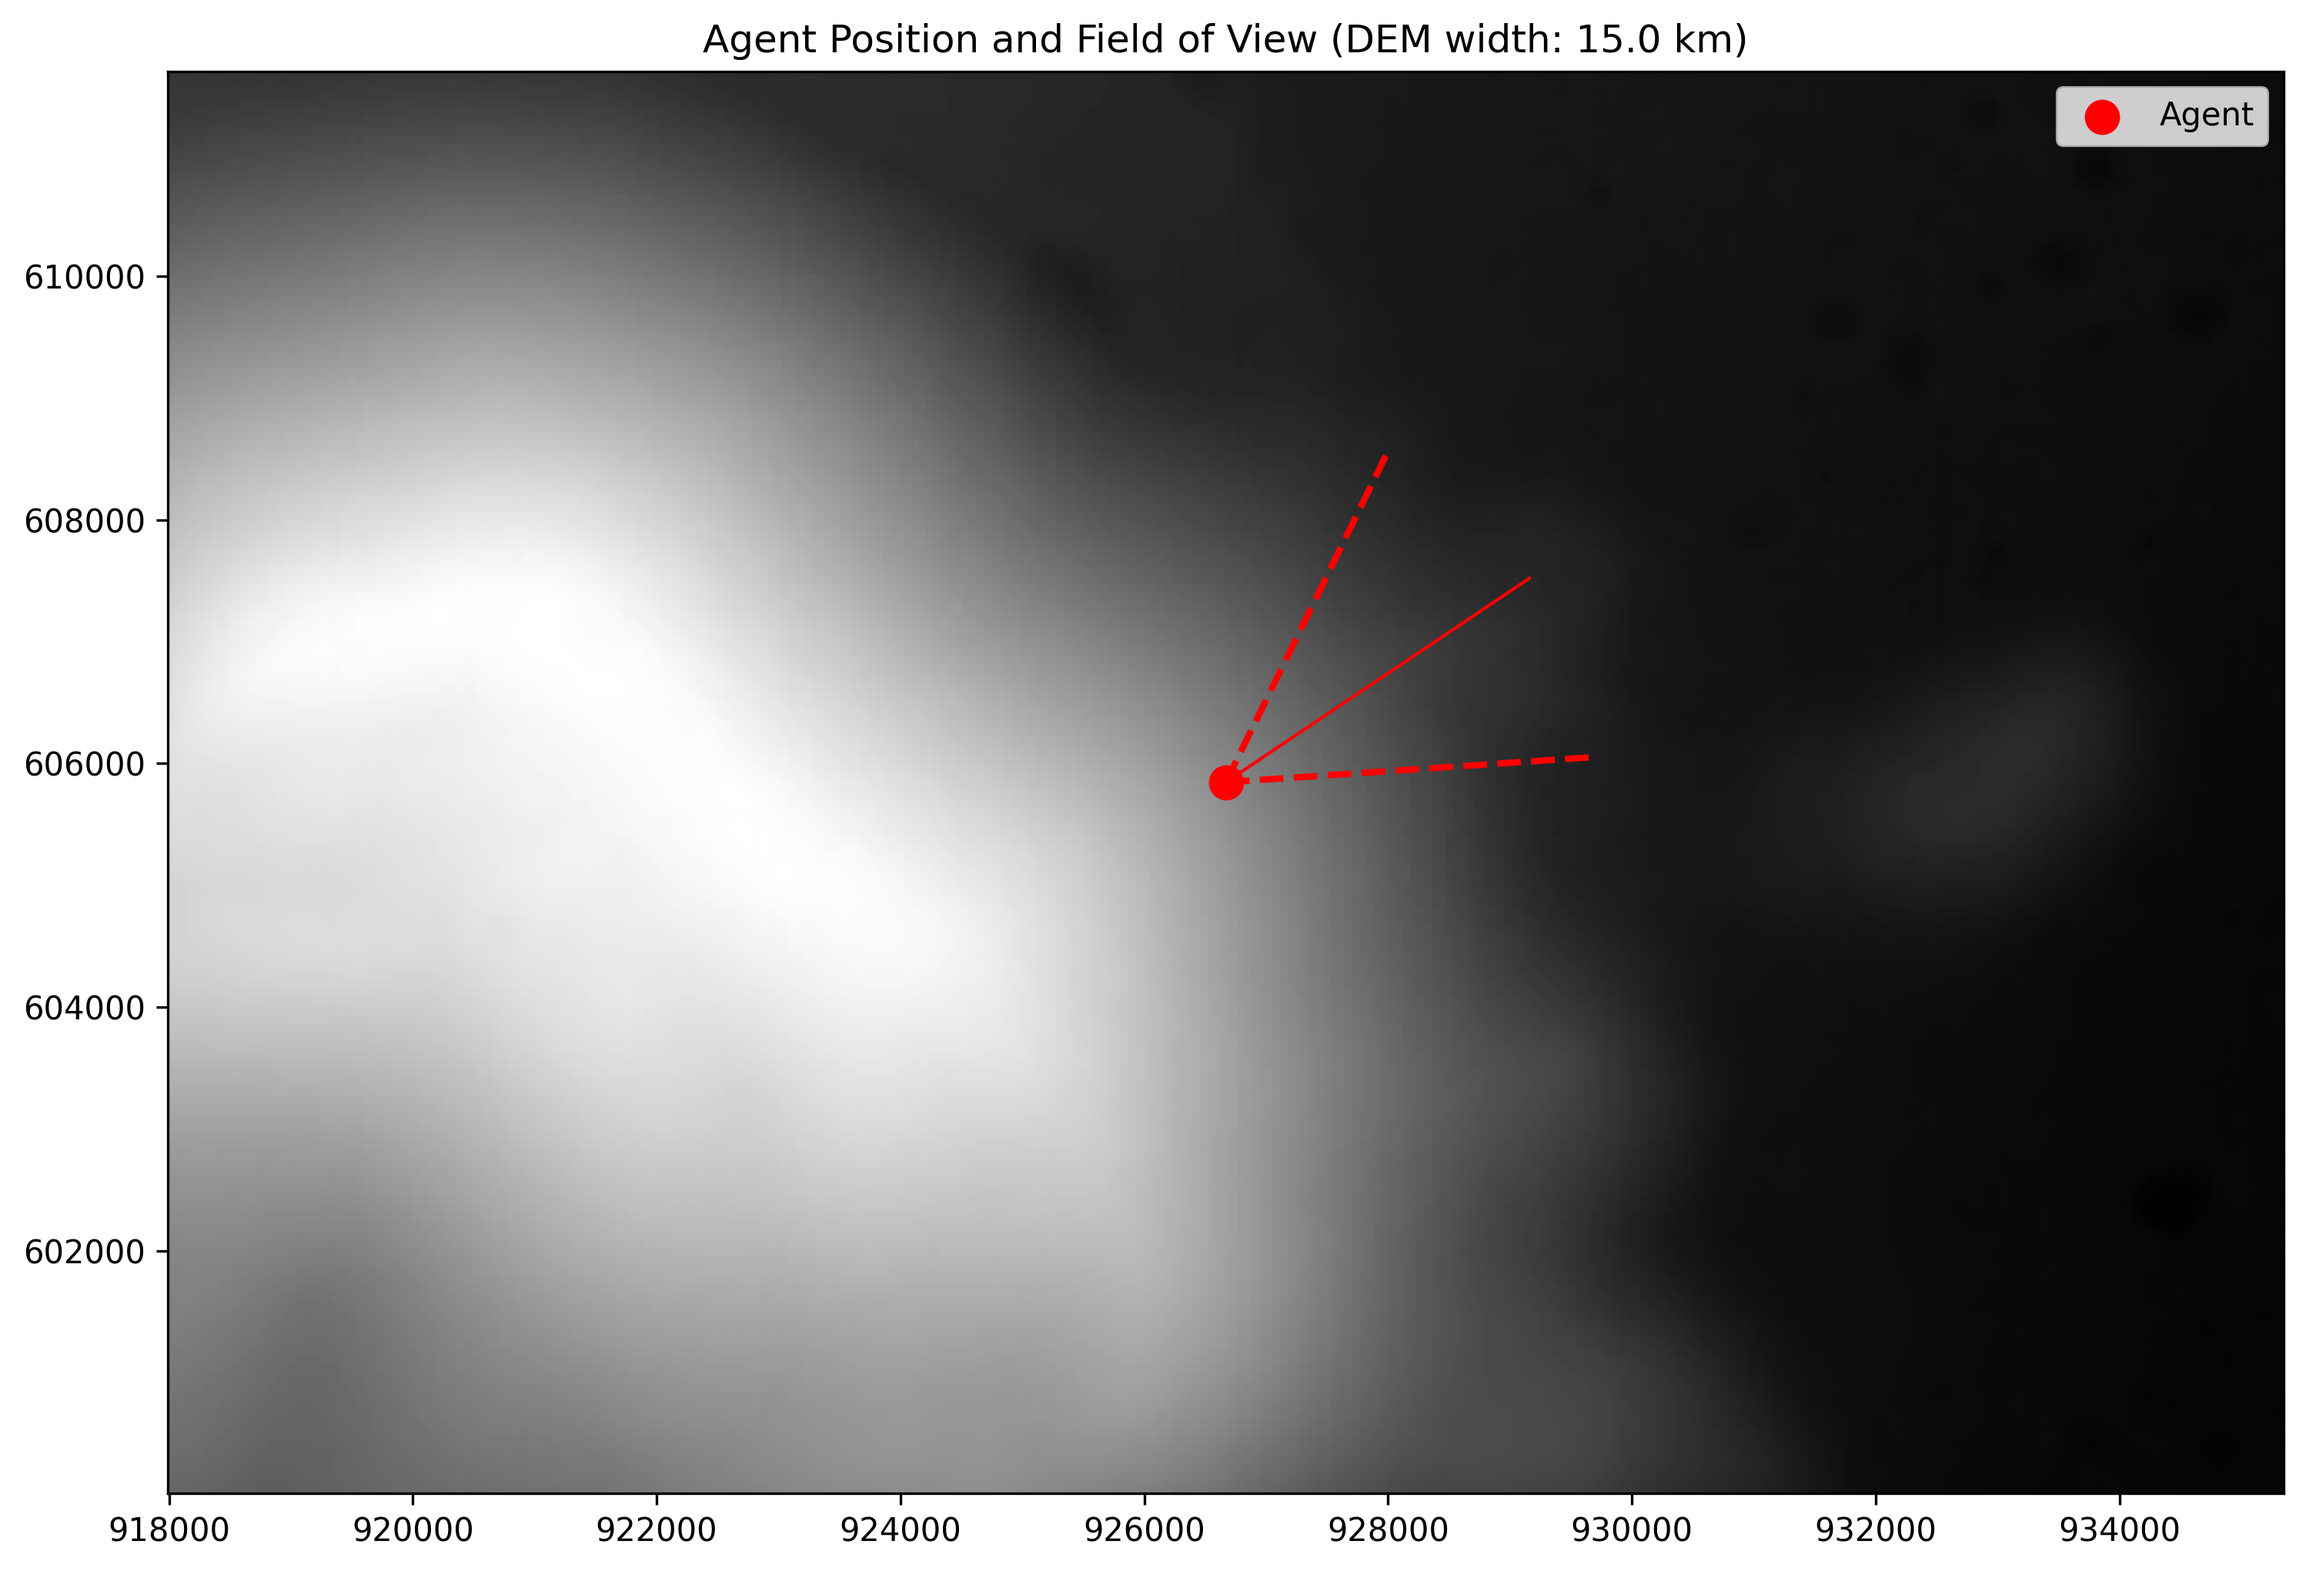
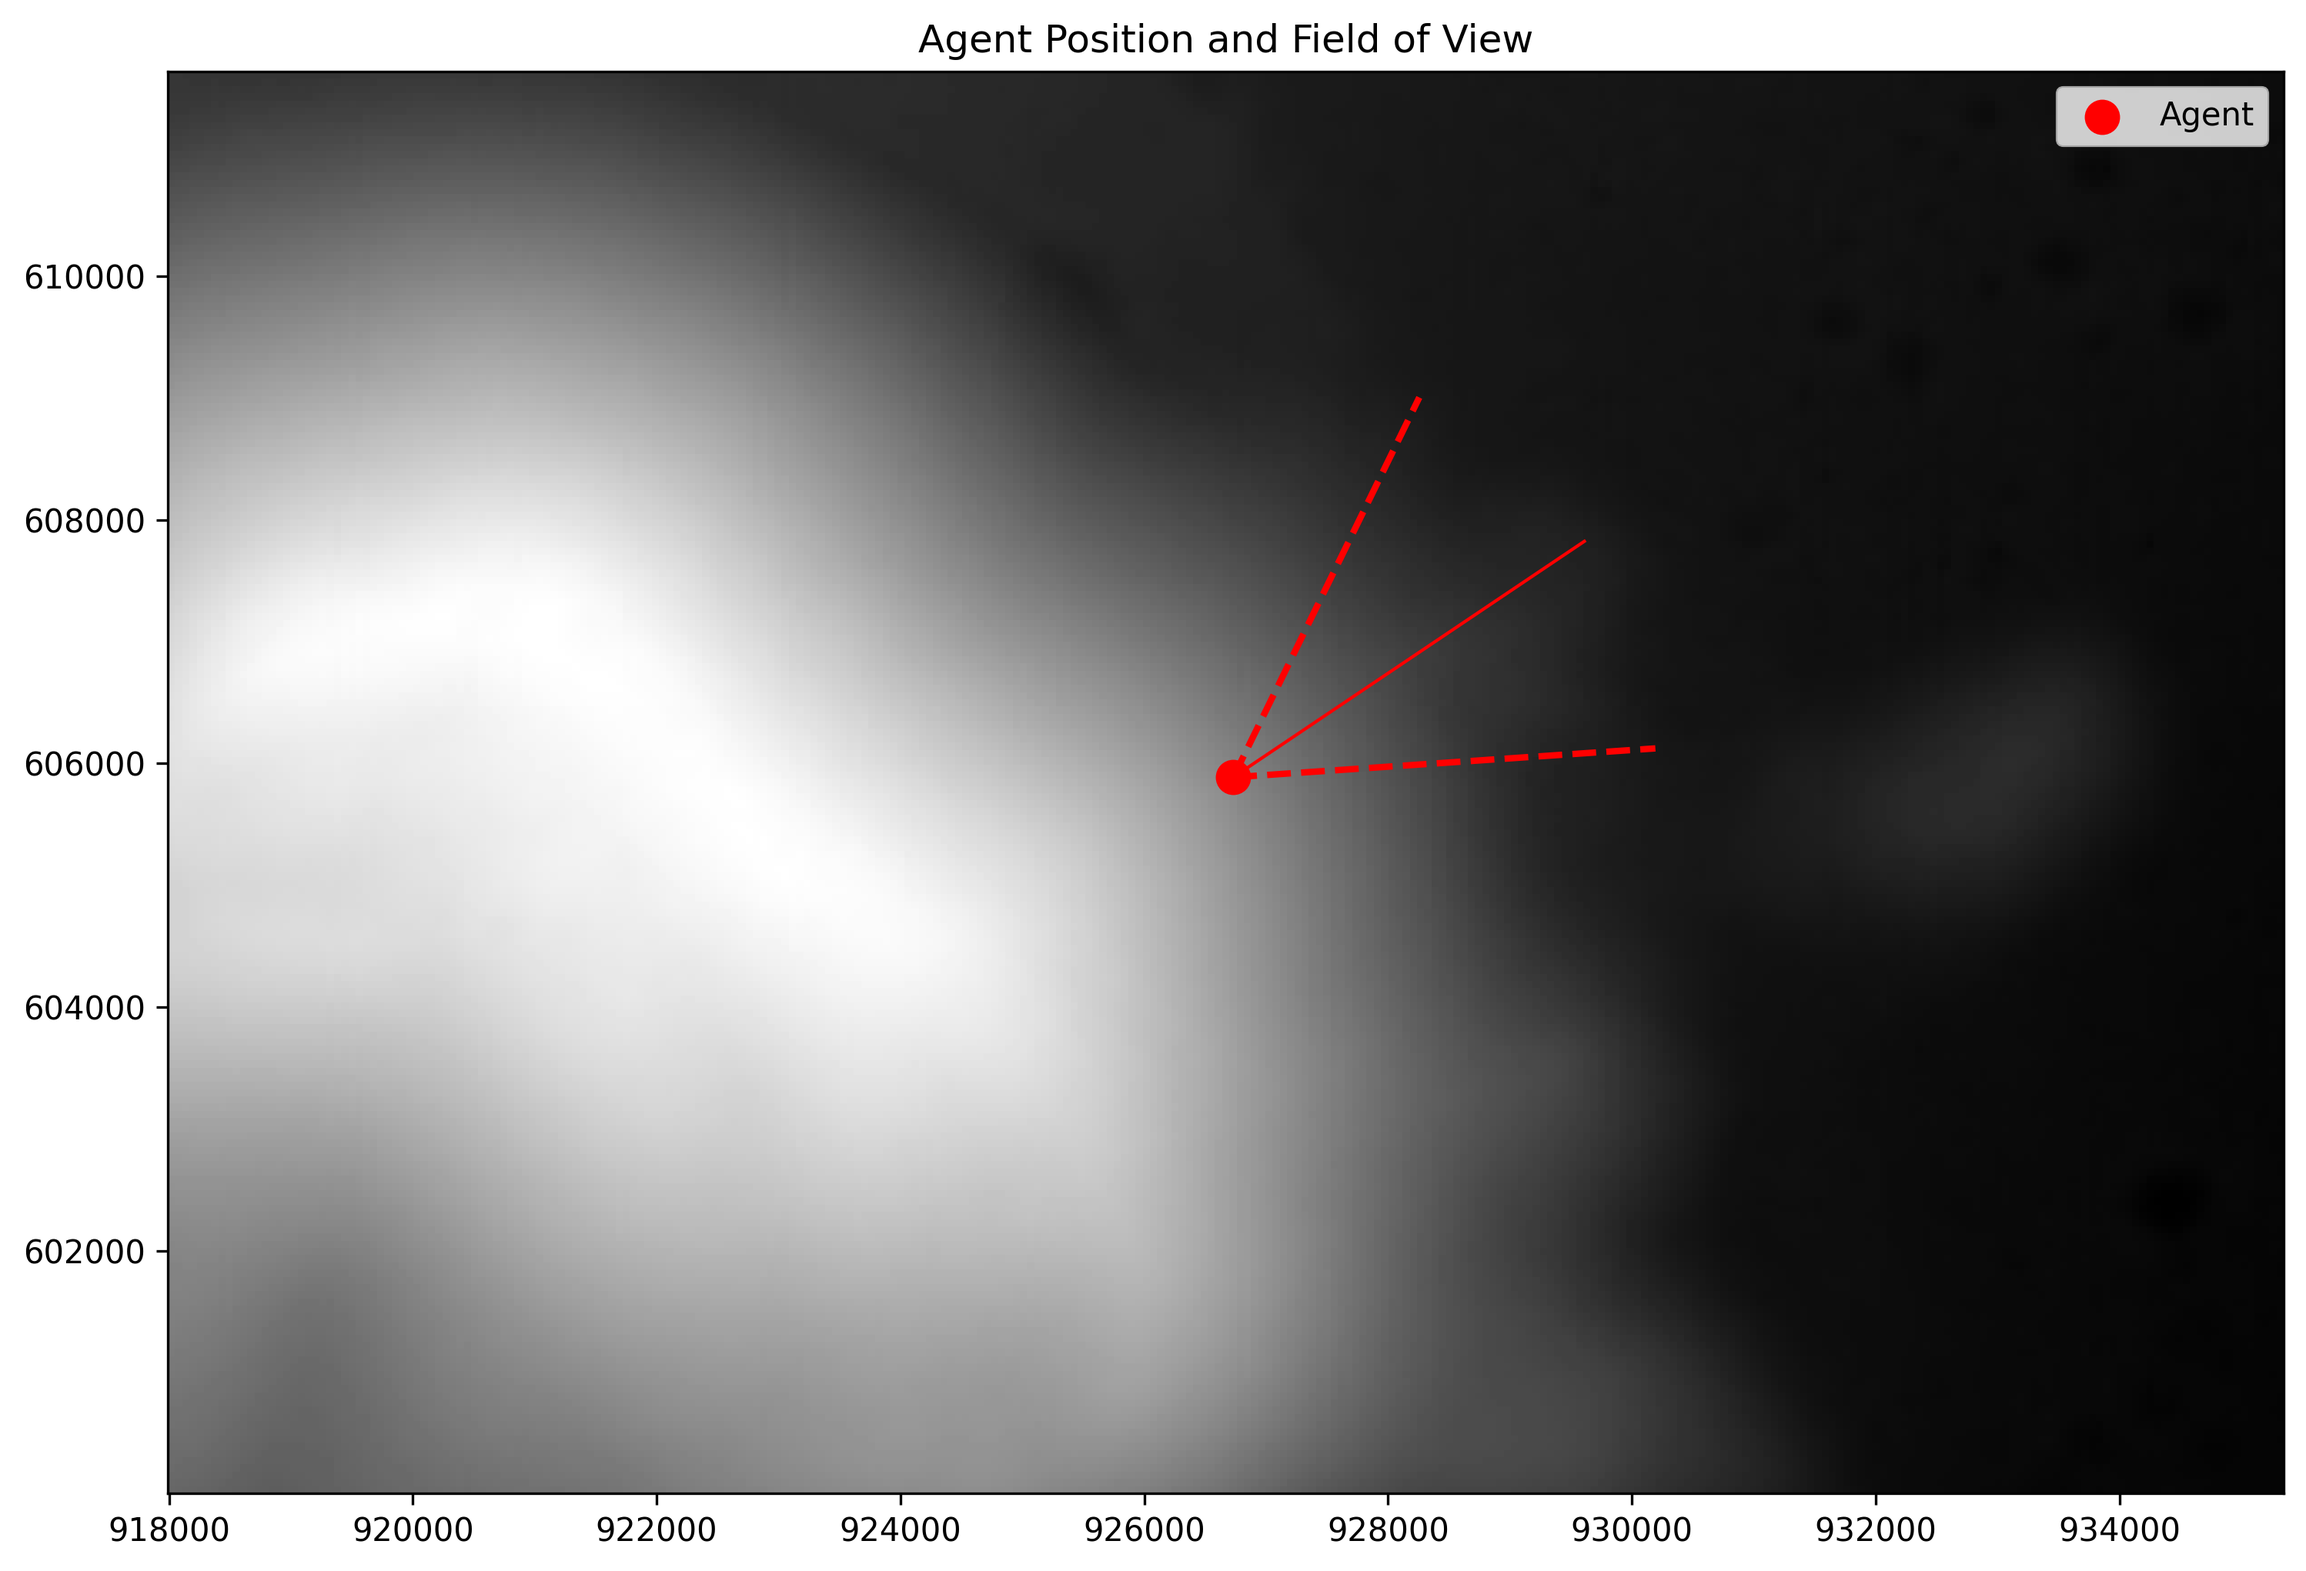
revert to old commit

diff --git a/generate_horizon_images.py b/generate_horizon_images.py
@@ -5,10 +5,11 @@ import rasterio
 from dem_to_mesh import create_mesh_from_dem
 from classify_terrain import classify_and_color_mesh
 from render_scene import render_scene
-from agent_view import draw_agent_on_dem 
+import open3d as o3d
+import matplotlib.pyplot as plt
 import os
 
-def generate_horizon_views(mesh, dem_length_km, num_views=8):
+def generate_horizon_views(mesh, num_views=8):
     print("\n=== Generating Horizon Views ===")
     
     # Get mesh bounds
@@ -16,19 +17,19 @@ def generate_horizon_views(mesh, dem_length_km, num_views=8):
     center = bbox.get_center()
     bbox_size = bbox.get_max_bound() - bbox.get_min_bound()
     
-    # Calculate observer parameters (in km)
-    ground_height = bbox.get_min_bound()[2] + 0.001  # 1m above ground
-    observer_radius = 0.05  # Fixed 50m radius
-    look_distance = dem_length_km * 0.6  # Scale look distance based on DEM size
+    # Calculate observer parameters
+    ground_height = bbox.get_min_bound()[2] + 5.0
+    observer_radius = 5.0
+    look_distance = max(bbox_size[0], bbox_size[1]) * 0.6
     
     print(f"Observer setup:")
     print(f"Ground height: {ground_height:.2f}")
-    print(f"Observer radius: {observer_radius:.2f} km")
-    print(f"Look distance: {look_distance:.2f} km")
+    print(f"Observer radius: {observer_radius:.2f}")
+    print(f"Look distance: {look_distance:.2f}")
     
     images = []
-    positions = []
-    targets = []
+    positions = []  # Store observer positions
+    targets = []    # Store look targets
     
     for i in range(num_views):
         angle = (2 * np.pi * i) / num_views
@@ -44,7 +45,7 @@ def generate_horizon_views(mesh, dem_length_km, num_views=8):
         look_target = np.array([
             center[0] + look_distance * np.cos(angle),
             center[1] + look_distance * np.sin(angle),
-            ground_height + look_distance * 0.05  # Slight upward angle
+            ground_height + look_distance * 0.05
         ])
         
         print(f"\nProcessing view {i+1}/{num_views}")
@@ -52,8 +53,7 @@ def generate_horizon_views(mesh, dem_length_km, num_views=8):
         print(f"Looking towards: {look_target}")
         
         try:
-            # Pass dem_length_km to render_scene
-            image = render_scene(mesh, observer_position, look_target, dem_length_km)
+            image = render_scene(mesh, observer_position, look_target)
             print(f"Successfully rendered view {i+1}")
             images.append(image)
             positions.append(observer_position)
@@ -80,11 +80,91 @@ def save_image(image, filename):
         print(f"Error saving image: {str(e)}")
         return False
 
+def draw_agent_on_dem(dem_data, transform, observer_position, look_target, filename):
+    print(f"\nDrawing agent on DEM for {filename}")
+    try:
+        fig, ax = plt.subplots(figsize=(12, 8))
+        
+        # Plot the DEM with proper normalization
+        dem_normalized = (dem_data - dem_data.min()) / (dem_data.max() - dem_data.min())
+        extent = [
+            transform[2], 
+            transform[2] + transform[0] * dem_data.shape[1],
+            transform[5] + transform[4] * dem_data.shape[0], 
+            transform[5]
+        ]
+        ax.imshow(dem_normalized, cmap='gray', extent=extent)
+        
+        # Convert normalized coordinates back to real-world coordinates
+        real_observer_x = transform[2] + (observer_position[0] / 1000.0) * transform[0] * dem_data.shape[1]
+        real_observer_y = transform[5] + (1 - observer_position[1] / 1000.0) * transform[4] * dem_data.shape[0]
+        
+        real_target_x = transform[2] + (look_target[0] / 1000.0) * transform[0] * dem_data.shape[1]
+        real_target_y = transform[5] + (1 - look_target[1] / 1000.0) * transform[4] * dem_data.shape[0]
+        
+        # Debug prints
+        print(f"Normalized observer position: ({observer_position[0]:.2f}, {observer_position[1]:.2f})")
+        print(f"Real-world observer position: ({real_observer_x:.2f}, {real_observer_y:.2f})")
+        
+        # Plot the agent's position
+        ax.scatter(real_observer_x, real_observer_y, 
+                  color='red', s=100, marker='o', label='Agent')
+        
+        # Calculate and plot FOV
+        direction = np.array([real_target_x - real_observer_x, 
+                            real_target_y - real_observer_y])
+        direction_norm = np.linalg.norm(direction)
+        
+        if direction_norm > 0:
+            direction = direction / direction_norm
+            fov_distance = (extent[1] - extent[0]) * 0.2  # 20% of DEM width
+            fov_angle = np.pi / 6  # 30 degrees
+            
+            # Calculate FOV lines
+            base_angle = np.arctan2(direction[1], direction[0])
+            left_angle = base_angle + fov_angle
+            right_angle = base_angle - fov_angle
+            
+            # Plot FOV lines
+            for angle in [left_angle, right_angle]:
+                end_point = np.array([
+                    real_observer_x + fov_distance * np.cos(angle),
+                    real_observer_y + fov_distance * np.sin(angle)
+                ])
+                ax.plot([real_observer_x, end_point[0]],
+                       [real_observer_y, end_point[1]],
+                       'r--', linewidth=2)
+            
+            # Plot center line of view
+            center_end = np.array([
+                real_observer_x + fov_distance * direction[0],
+                real_observer_y + fov_distance * direction[1]
+            ])
+            ax.plot([real_observer_x, center_end[0]],
+                   [real_observer_y, center_end[1]],
+                   'r-', linewidth=1)
+        
+        # Add legend and title
+        ax.legend()
+        ax.set_title('Agent Position and Field of View')
+        
+        # Ensure proper axis limits
+        ax.set_xlim(extent[0], extent[1])
+        ax.set_ylim(extent[2], extent[3])
+        
+        # Save the image
+        filepath = os.path.join('views_with_agents', filename)
+        plt.savefig(filepath, dpi=300, bbox_inches='tight')
+        plt.close(fig)
+        print(f"Saved {filepath}")
+        
+    except Exception as e:
+        print(f"Error drawing agent on DEM: {str(e)}")
+        import traceback
+        traceback.print_exc()
+
 def main():
     try:
-        # Specify the real-world horizontal length of the DEM in kilometers
-        dem_length_km = 15.0  # Length of the DEM in kilometers
-        
         # Create output directories
         output_dir = 'horizon_views'
         views_with_agents_dir = 'views_with_agents'
@@ -101,7 +181,6 @@ def main():
             transform = dem_dataset.transform
             print(f"DEM data shape: {dem_data.shape}")
             print(f"DEM elevation range: {dem_data.min():.2f} to {dem_data.max():.2f}")
-            print(f"DEM horizontal length: {dem_length_km} km")
 
         # Create and process mesh
         print("\nCreating mesh...")
@@ -118,7 +197,7 @@ def main():
             
         # Generate views
         print("\nGenerating views...")
-        images, positions, targets = generate_horizon_views(mesh, dem_length_km)
+        images, positions, targets = generate_horizon_views(mesh)
         
         if not images:
             raise ValueError("No images were generated")
@@ -132,7 +211,7 @@ def main():
             
             # Create agent view
             agent_file = f'agent_view_{i+1}.png'
-            draw_agent_on_dem(dem_data, transform, pos, target, agent_file, dem_length_km)
+            draw_agent_on_dem(dem_data, transform, pos, target, agent_file)
 
     except Exception as e:
         print(f"\nAn error occurred: {str(e)}")

diff --git a/render_scene.py b/render_scene.py
@@ -3,9 +3,8 @@
 import numpy as np
 import pyrender
 import trimesh
-from view_config import FOV_ANGLE, VIEW_DISTANCE_RATIO
 
-def render_scene(mesh, rover_position, camera_target, dem_length_km, image_width=1024, image_height=768):
+def render_scene(mesh, rover_position, camera_target, image_width=1024, image_height=768):
     print("\n=== Setting up Pyrender Scene ===")
     
     try:
@@ -26,13 +25,13 @@ def render_scene(mesh, rover_position, camera_target, dem_length_km, image_width
         scene = pyrender.Scene(bg_color=[0, 0, 0])
         scene.add(mesh)
         
-        # Calculate camera parameters using shared config
-        aspect_ratio = float(image_width) / float(image_height)
-        znear = 0.1  # Near clipping plane
-        zfar = dem_length_km * 1000  # Far clipping plane based on DEM size
-        
-        camera = pyrender.PerspectiveCamera(yfov=FOV_ANGLE, aspectRatio=aspect_ratio, 
-                                          znear=znear, zfar=zfar)
+        # Calculate camera parameters
+        camera = pyrender.PerspectiveCamera(
+            yfov=np.pi/4.0,  # Reduced FOV for less distortion
+            aspectRatio=float(image_width)/float(image_height),
+            znear=0.1,  # Increased near plane to avoid clipping
+            zfar=1000.0  # Increased far plane for better horizon view
+        )
         
         # Set up camera pose
         look_dir = camera_target - rover_position
@@ -54,7 +53,7 @@ def render_scene(mesh, rover_position, camera_target, dem_length_km, image_width
         # Add stronger directional light
         light = pyrender.DirectionalLight(
             color=[1.0, 1.0, 1.0],
-            intensity=5.0
+            intensity=5.0  # Increased intensity for brighter illumination
         )
         scene.add(light, pose=pose)
         

diff --git a/dem_to_mesh.py b/dem_to_mesh.py
@@ -4,7 +4,7 @@ import numpy as np
 import open3d as o3d
 import rasterio
 
-def create_mesh_from_dem(dem_data, transform, downsample_factor=2):
+def create_mesh_from_dem(dem_data, transform, downsample_factor=4):
     print("\n=== DEM to Mesh Conversion ===")
     print(f"Input DEM shape: {dem_data.shape}")
     print(f"Downsample factor: {downsample_factor}")
